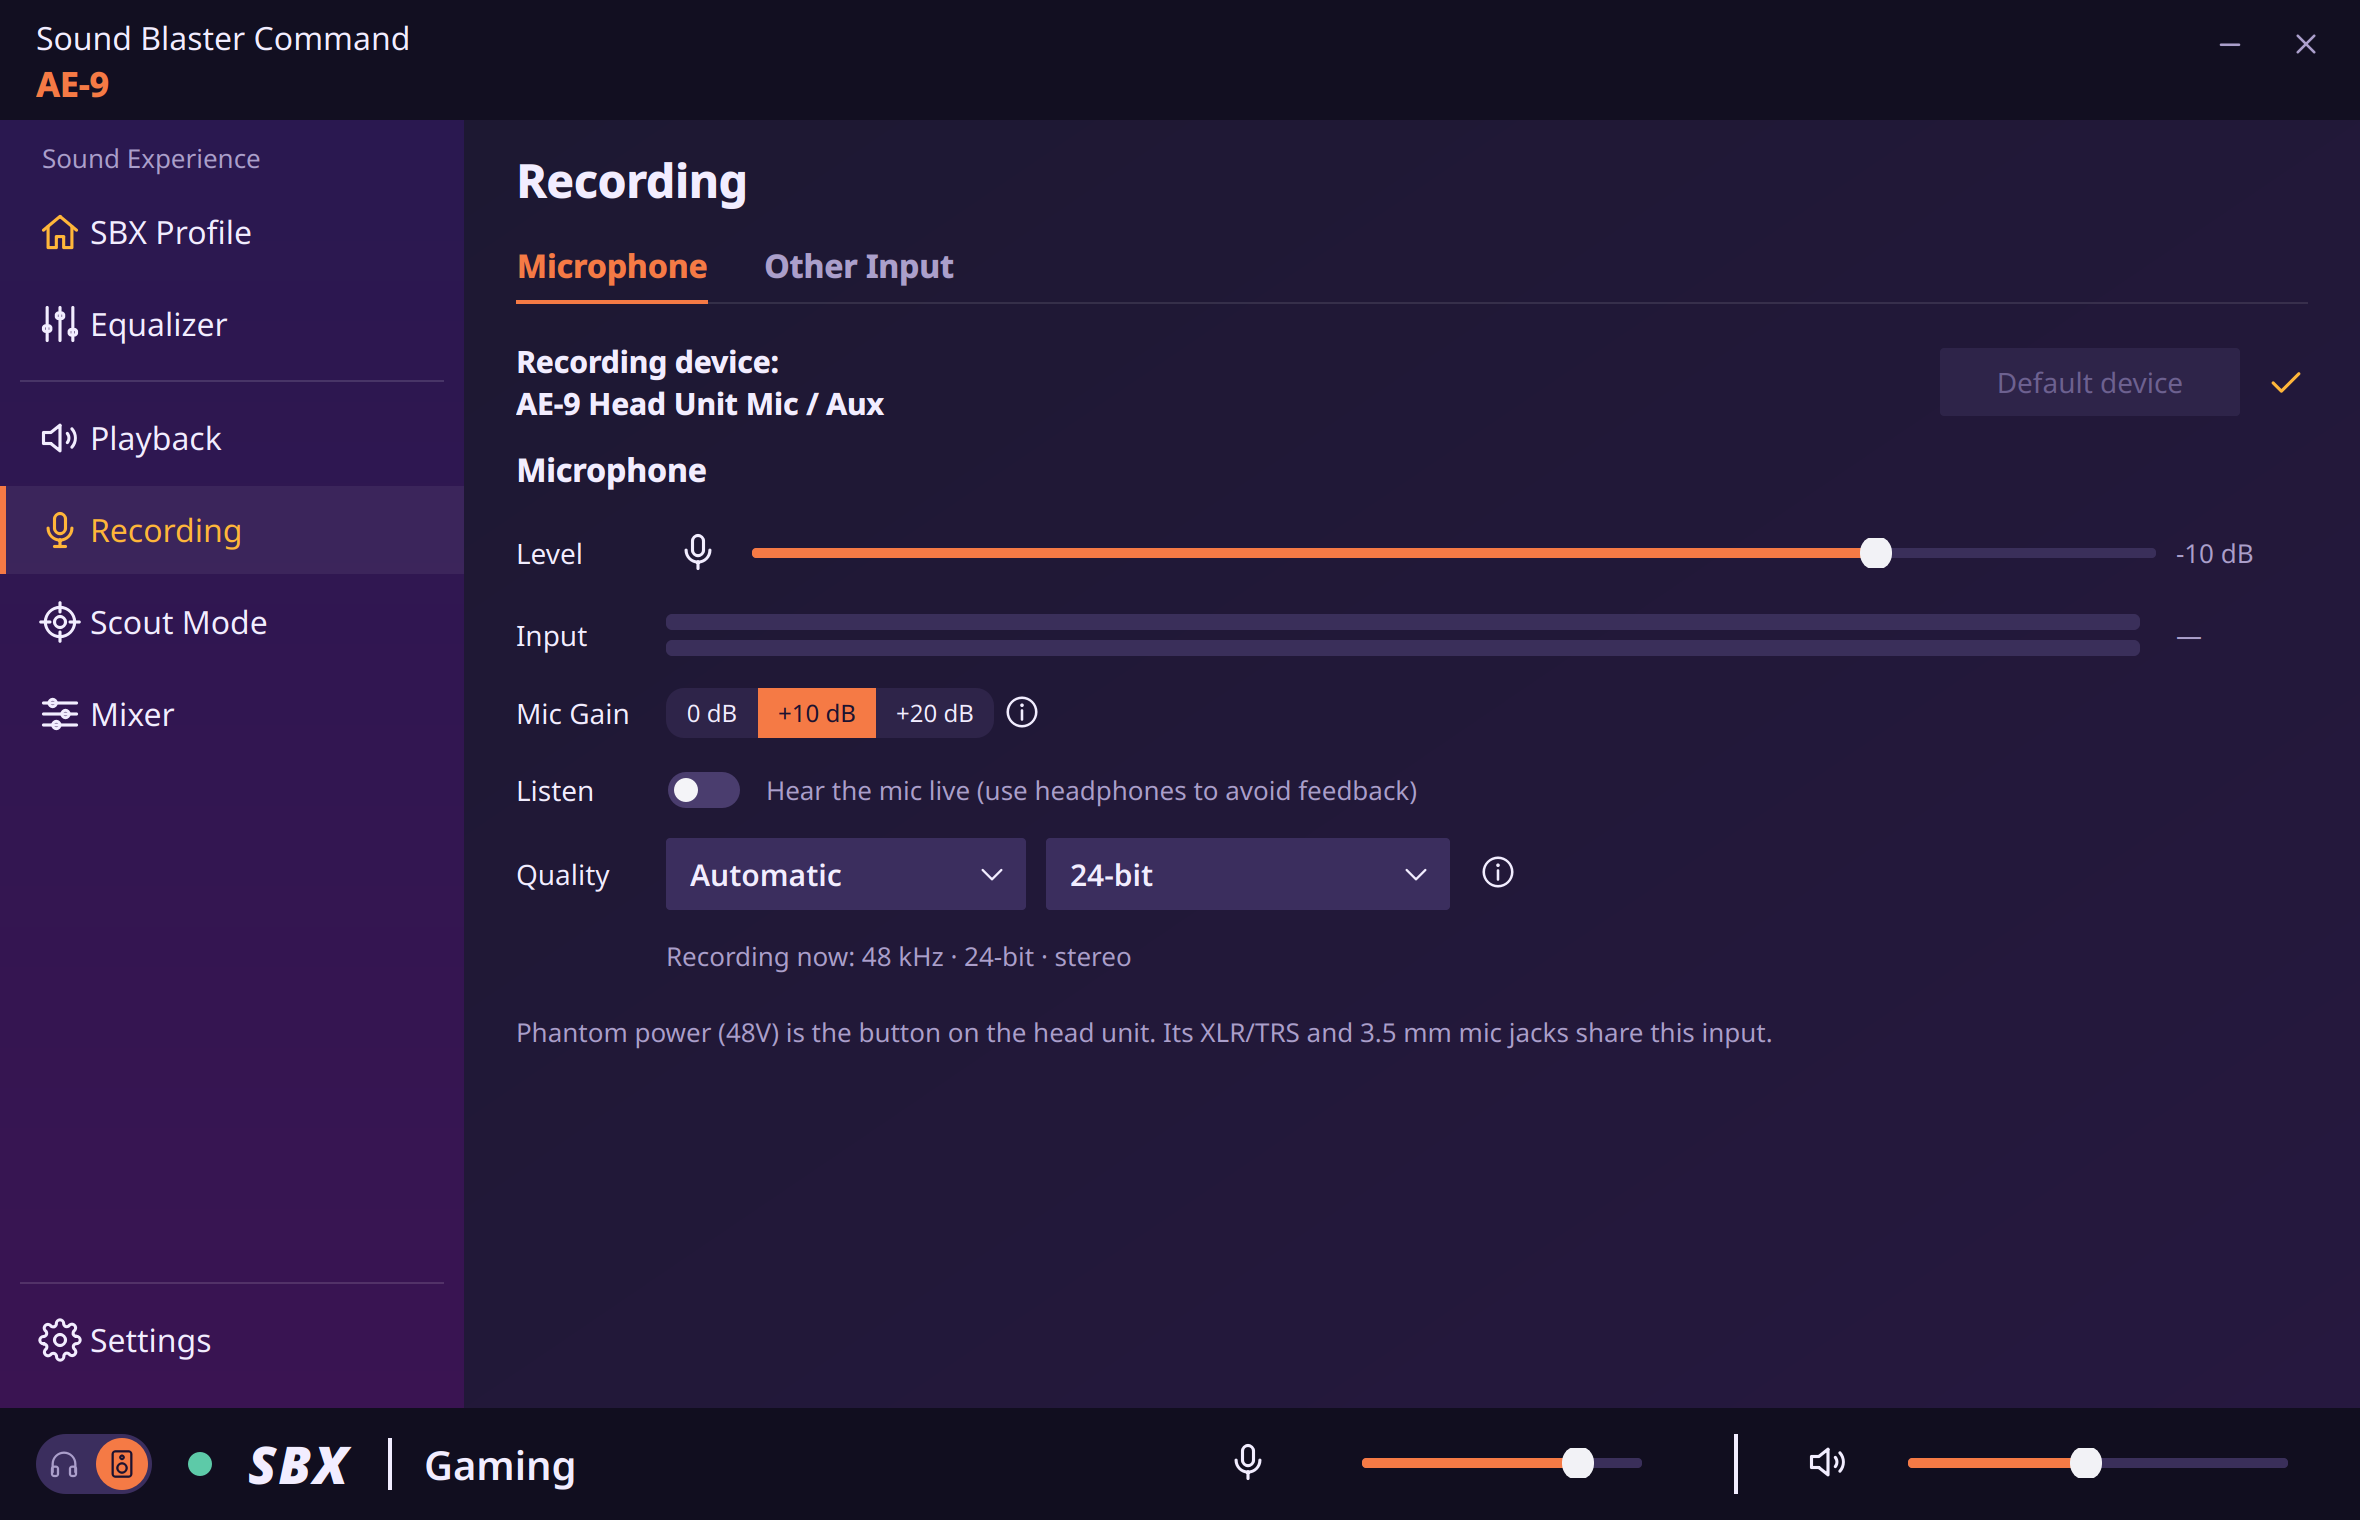
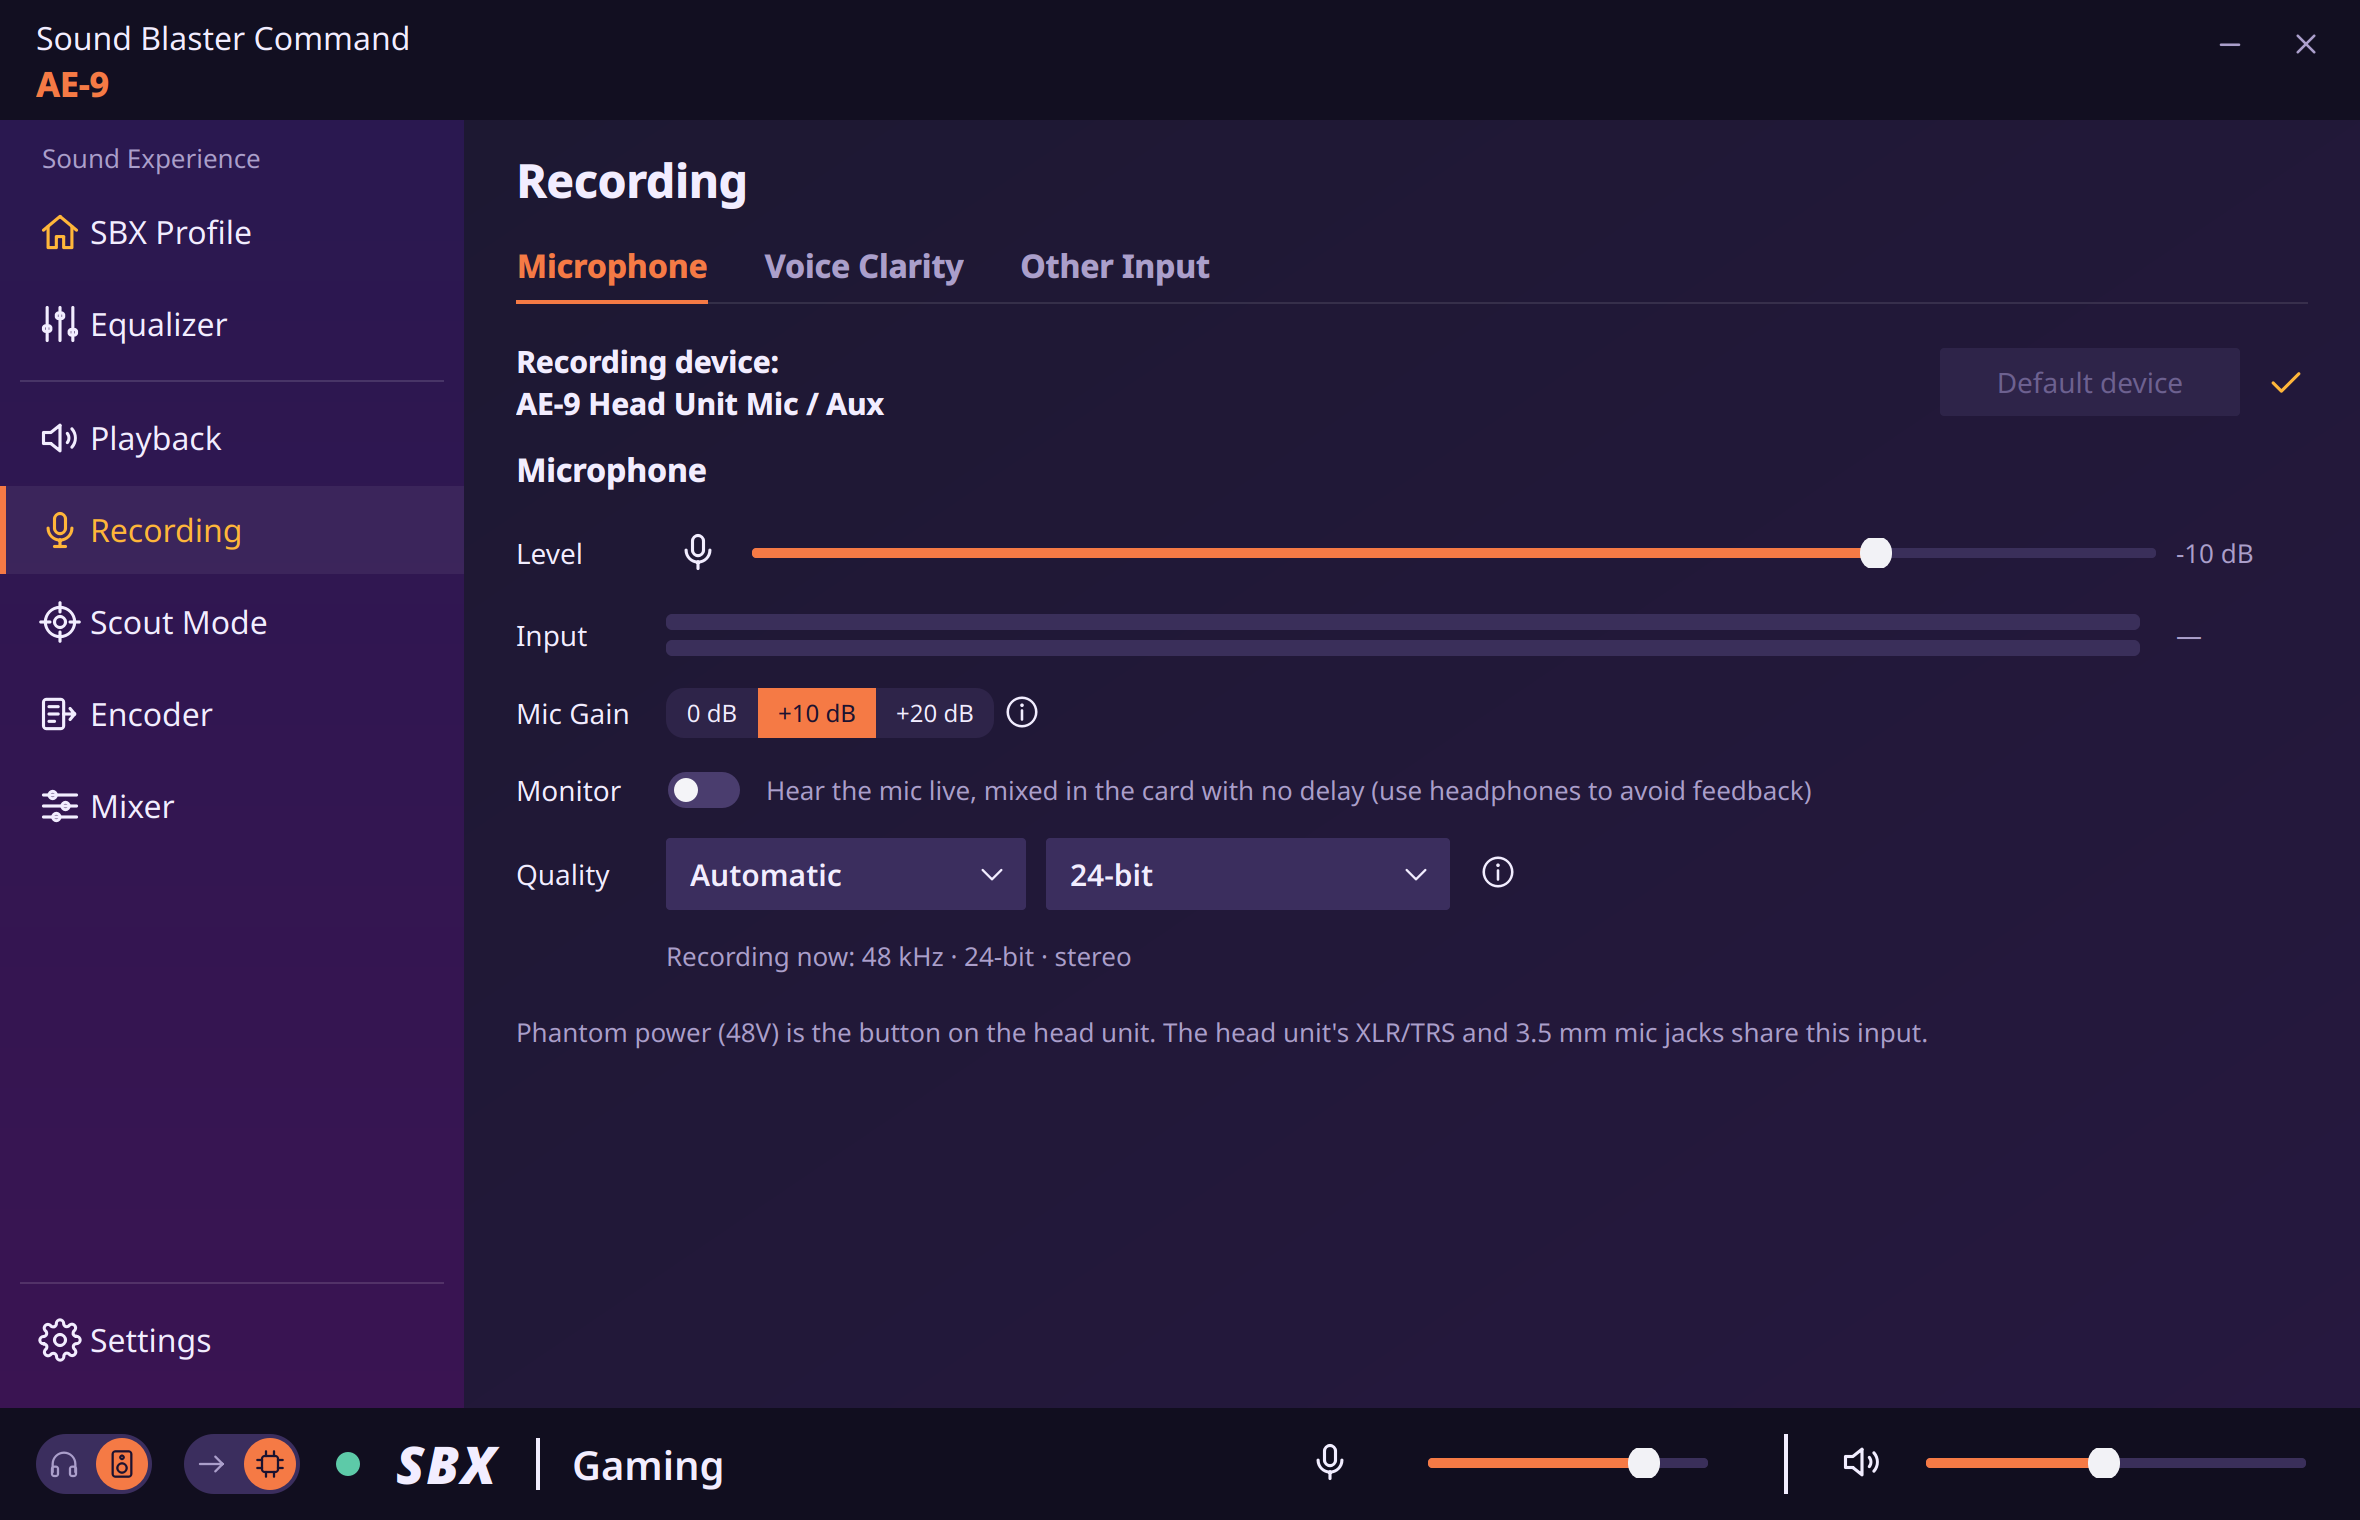
Screenshots: retake for 0.17.0; find pages by type
Claude-Session: https://claude.ai/code/session_01WuMr9MhBQvTGdmy61c1qjH

diff --git a/tools/screenshots.py b/tools/screenshots.py
@@ -13,7 +13,7 @@ os.environ["QT_SCALE_FACTOR"] = "2"
 ROOT = os.path.dirname(os.path.dirname(os.path.abspath(__file__)))
 sys.path.insert(0, os.path.join(ROOT, "tests"))
 import support as S
-from sbcommand import card as C, profiles, theme
+from sbcommand import card as C, pages, profiles, theme
 from sbcommand.window import Context, MainWindow
 
 palette = sys.argv[1] if len(sys.argv) > 1 else "helix"
@@ -29,18 +29,39 @@ for p in S.PW.sink["info"]["params"]["Props"]:
     if "channelVolumes" in p:
         p["channelVolumes"] = [0.62 ** 3] * 6
 S.PW.stream = (48000, 6)
-# a current driver (v0.9.1): 96 kHz recording, its names, optical and What U Hear
-S.PARAMS.update({"version": "0.9.1", "surround_96k": "1"})
+# a current driver (v0.12.2): 96 kHz recording, its names, optical in and out,
+# What U Hear, the rear RCA input, custom headphone slots
+S.PARAMS.update({"version": "0.12.2", "surround_96k": "1", "dsp_96k": "Y", "wuh_96k": "Y",
+                 "hp_custom": "DT990=Beyerdynamic DT 990 Pro;;;"})
 S.PW.set_mic_range(96000)
 S.PW.source["info"]["props"]["node.description"] = "AE-9 Head Unit Mic / Aux"
 S.PW.capture = (48000, 2)
 S.PW.add_optical_in()
 S.PW.add_what_u_hear()
+S.PW.add_rear_rca()
+S.PW.add_optical_out(first=False)
 
 ctx = Context()
 m = S.FakeMixer.last
 m.add_bool(C.OPTICAL_OUT, True)
 m.add_enum(C.CAP_BIT_DEPTH, ["24-bit", "32-bit"])
+m.add_bool(C.OPTICAL_MIRROR, False)
+m.add_bool(C.HP_VIRT, True)
+m.add_bool(C.LINE_VIRT, False)
+m.add_bool(C.MIC_MONITOR, False)
+for name in (C.VC, C.VC_AEC, C.VC_NR, C.VC_SVM):
+    m.add_bool(name, False)
+m.add_enum(C.VC_MICEQ, ["Off", "Preset 1 - Reduce Bass, harshness, improve clarity",
+                        "Preset DM-1 - Improve vocal and clarity"])
+m.add_enum(C.VC_MORPH, ["Neutral", "Male", "Female", "Kid", "Elderly", "Deep Voice", "From Up North",
+                        "Unstable", "Emo", "Elf", "Dwarf", "Demon", "Infiltrator", "Brute", "Orc",
+                        "Marine", "Chipmunk", "Robot"])
+m.add_enum(C.HP_PROFILE, ["Off"] + list(C.HP_KEYS) +
+           ["Beyerdynamic DT 990 Pro", "Custom 2", "Custom 3", "Custom 4"], 0)
+hp = os.path.join(C.HP_DIRS[0], "creative-ae9", "hp")
+os.makedirs(hp, exist_ok=True)
+for key in list(C.HP_KEYS.values()) + ["DT990"]:
+    open(os.path.join(hp, key + ".bin"), "wb").close()
 for name, v in {C.DIRECT: False, C.SBX: True, C.OUTPUT: 0, C.MASTER: 214, C.MASTER_SW: True,
                 C.SPEAKER_CFG: 4, C.BIT_DEPTH: 0, C.MIC: 80, "XLR Gain Capture Volume": 1, C.SCOUT: False,
                 C.DAC_FILTER: 1}.items():
@@ -60,6 +81,8 @@ ctx.pw.refresh()
 S.process(50)
 
 def shot(idx, name):
+    if isinstance(idx, type):           # a page class: its place in the side bar
+        idx = next(i for i in range(w.stack.count()) if isinstance(w.stack.widget(i), idx))
     w.go(idx)
     S.process(150)
     page = w.stack.currentWidget()
@@ -76,6 +99,7 @@ def shot(idx, name):
 use("Default")
 shot(0, "screenshot")
 use("Gaming")
-for idx, name in ((1, "equalizer"), (2, "playback"), (3, "recording"), (5, "mixer")):
+for idx, name in ((pages.EqPage, "equalizer"), (pages.PlaybackPage, "playback"),
+                  (pages.RecordingPage, "recording"), (pages.MixerPage, "mixer")):
     shot(idx, name)
 print("saved to", out)

diff --git a/tools/glass_screenshots.py b/tools/glass_screenshots.py
@@ -37,7 +37,7 @@ for p in S.PW.sink["info"]["params"]["Props"]:
     if "channelVolumes" in p:
         p["channelVolumes"] = [0.62 ** 3] * 6
 S.PW.stream = (48000, 6)
-S.PARAMS.update({"version": "0.9.1", "surround_96k": "1"})
+S.PARAMS.update({"version": "0.12.2", "surround_96k": "1"})
 
 # the wallpaper frame, full screen on the centre monitor, behind the app
 wall = QLabel(); wall.setWindowFlag(Qt.FramelessWindowHint)
